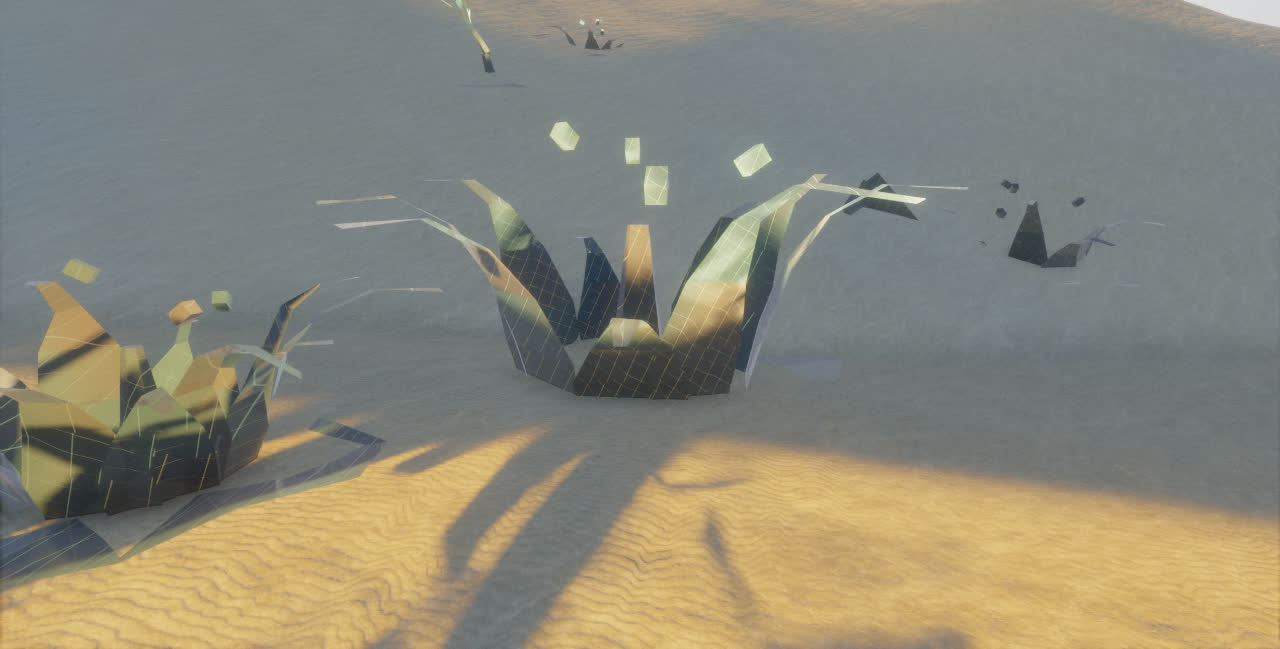
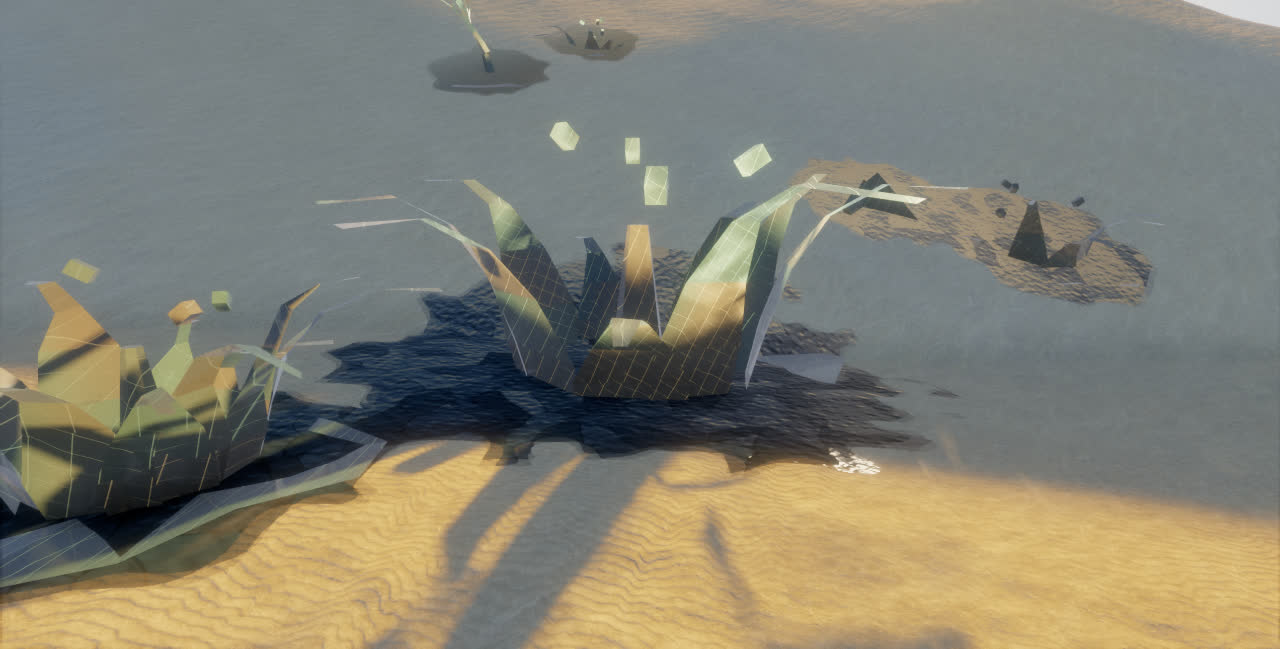
docs(phase 9): finishing round — review guide, plan, PROGRESS, PERF; oasis spots reframed past the caravanserai; review captures

diff --git a/docs/phase-9/review-guide.md b/docs/phase-9/review-guide.md
@@ -1,10 +1,10 @@
-# Phase 9 — the erg: human review guide (30 October 2026)
+# Phase 9 — the erg: human review guide (30 October 2026, updated)
 
 Everything for D7 (ruins and glass), D7b (ravine kits) and D8 (scrub, margin, oasis) is in and on
 `claude/wraithoftheunstill-phase-7`. This is the list to walk through. Each view is a photo spot:
 open the game with `?spot=<id>` (add `&title=0` to skip the title), or pick it from the photo-spot
 menu. The captures from the last build are in `screenshots/phase-09-review/` (`sheet.jpg` is all
-sixteen on one page).
+seventeen on one page).
 
 Restoration matters: most spots set the Dunes **restored**; `p9r-oasis-stilled` sets them stilled.
 Water in the braids runs only from about 16:30 to 1:00 and only once restored.
@@ -20,29 +20,41 @@ Water in the braids runs only from about 16:30 to 1:00 and only once restored.
 | `p9r-stride-seams` | down in the Stride | thin black-green glass veins in the walls, glinting, not glowing |
 | `p9r-hoodoos-dusk`, `p9r-hoodoos-noon` | the hoodoo field and arches | clean silhouettes, long shadows |
 | `p9r-canyon-shade` | the Galleries' floor in afternoon shade | the shaded sand is warm (the walls' bounce), not pale blue; sparse thorn and tamarisk |
-| `p9r-sandfall-restored` | a tiered sandfall on the west wall, morning | reads as poured sand; faint in shade |
+| `p9r-sandfall-restored` | a tiered sandfall on the west wall, morning | reads as poured sand; a cone of sand heaping at its foot |
+| `p9r-sandfall-frozen` | the same cascade frozen, afternoon shade | ramps of frozen sand ledge to ledge — a way up the wall |
 | `p9r-braids-restored` | the Dry Braids at dusk from above | thin braided water catching the sky, not a river; the aqueduct beside |
-| `p9r-glass-field` | a battle-glass field, late afternoon | glass, not plastic: green to amber, sky in it, dark in shade |
+| `p9r-glass-field` | a battle-glass field, late afternoon | glass, not plastic: green to amber, sky in it, dark in shade; the ground round each piece fused into a crazed glass crust |
 | `p9r-colossus-head` | the colossus head from the front | reads as a face (brow, nose, cheeks, ears) |
 | `p9r-pavement` | desert pavement underfoot | packed, varnished gravel, not dots |
 | `p9r-pavement-far` | the flats at 16:00 | darker gravel patches in the sand |
-| `p9r-oasis-restored` / `p9r-oasis-stilled` | the oasis both ways | restored: green palms, pool, reeds; stilled: grey palms, the basin dry and crazed |
+| `p9r-oasis-restored` / `p9r-oasis-stilled` | the oasis both ways, the caravanserai beyond | restored: green palms, pool, reeds; stilled: grey palms, the basin dry and crazed |
 
-Worth walking too (no fixed spot): the braids' banks once restored (flower clumps: primrose,
-sand verbena, globemallow, marigold); the slot floors; a wall's foot (collision); the Dry Stair's
-ford into the canyon.
+Worth walking too (no fixed spot):
+- **Freeze a sandfall**: with the Dunes restored and Frost in hand, Crystallize at the foot of a running cascade (the one in `p9r-sandfall-restored`). It freezes over a few seconds and stays frozen (saved). Climb its ramps up the wall.
+- **Wade the braids** at dusk once restored: a wake and splashes in the thin water. Flower clumps line their banks.
+- **The caravanserai** at the oasis: the gate drift (walk up and over it), the arcade roof (the stair in the back-left corner), the dry well.
+- **Glass ground**: surf onto it — it is slick.
+- The slot floors; a wall's foot (collision); the Dry Stair's ford into the canyon; the margin's grass drying to straw toward the erg.
 
-## Known gaps (not bugs)
+## What changed in this round
 
-- **Slot light shafts** are physically placed (lit only where the shadow map says the sun reaches
-  the air) and so rarely visible: the sun peaks at 49° and the Needle runs across its azimuth.
-- **Frozen sandfalls** and `p9r-sandfall-frozen` wait for D11's puzzles (freezing a fall is a verb).
-- **Sandfalls and the braids' water are visual only** until D2's sand flow; nothing wades in the braids.
-- Glass ground as terrain state, full-scene refraction, sand drifting into doorways as CPU solids
-  and the caravanserai (D11) are not done.
-- The margin's dry grass is the existing straw tussocks, not its own blade type.
+- **Frozen sandfalls**: Crystallize freezes a cascade into ramps and landings of frozen sand. The Wraith can climb a whole three-tier cascade, 107 m to 145 m. The controller no longer slides on steep terrain while standing on a built floor above it.
+- **Running sandfalls** heap a cone of sand at their foot (terrain state); it heals away when they stop or freeze.
+- **Slot beams**: art-directed beams at the slot bends, dropping from the rim at the sun's elevation while the sun is high and the rim is lit. (At this latitude the sun peaks at 49°, so the exact shadow-tested shafts barely reach into a slot.)
+- **Braids**: the Wraith wades in them. The CPU reads the shader's own water mask, and the wake and splashes ripple the sheets.
+- **Glass ground**: the terrain state's GLASS transform is fused under every piece of battle glass, drawn as a crazed, bubbled crust. It is surfable and slick, and it is the same channel D9's Glass-sworn will write.
+- **The caravanserai** (the Wellhouse camp, D11) at the oasis: walls, gate, towers, arcade with a walkable roof, a stair, the dry well, and sand drifted against the walls and into the gateway. The gate drift is a walkable solid. Trees now keep out of the erg's ruins.
+- **The margin's dry grass**: toward the erg the meadow's grass dries to straw, shorter and thinning in patches.
+- **Cliff fix**: two bake errors left some canyon risers as bare smeared sand slopes. Contour smoothing pulled cliff lines up onto the rock, and the floor trace used the spine's floor instead of the real one. Both are fixed.
+
+## Known gaps
+
+- **Full-scene refraction in the glass** is not done. It needs a copy of the opaque scene behind the glass (a new pass in the post chain). The glass's see-through term (the sky and sand behind, modelled) stands in.
+- **Sandfalls are fed by nothing** until D2's sand flow. Their cone is a kept heap, not a mass budget.
+- **No pair of cascades faces across the canyon**, so `p9r-sandfall-frozen` and `p9r-sandfall-restored` show the same cascade frozen in shade and running in sun, not side by side.
+- The allocation check flags `controller.update`, `springArm.update`, `weapons.update` and `stone.update`. These fail identically at the session's starting commit (ed57334), so they are not from this work. Worth a look on their own.
 
 ## Cost
 
-GPU means at 2560×1440, render scale 0.7 on the 3060: 13.1 ms at `p9r-galleries-dawn`, 13.1 at
-`p9r-hoodoos-noon`, 9.9 at `p9r-braids-restored`; load 17.1–17.5 s; no late pipelines. See PERF.md.
+GPU means at 2560×1440, render scale 0.7 on the 3060: 13.9–14.1 ms at `p9r-galleries-dawn`, 14.2 at
+`p9r-hoodoos-noon`, 14.1 at `p9r-needle-noon`, 10.6 at `p9r-braids-restored`, 14.8 at `p8-meadow-golden`; load 18.0 s; no late pipelines. See PERF.md.

diff --git a/docs/phase-9/plan.md b/docs/phase-9/plan.md
@@ -294,7 +294,8 @@ Fixed-scene 1440p GPU medians ~15.1 ms close, 11.3 ms mid, 12.6 ms canyon. NOT A
 ### D7 — Done (ruins and glass, 2026-10-30)
 
 Ruins are architecture sites in Shaper stone (`src/world/ruinKits.js`), seated, collided, shadowed and chunked like every built place; erg sites take sand on their ledges and banked at their feet instead of snow (site glow z = 2): **the Sunken Temple** (its dome showing above a seif dune round the open vent, a ring of half-buried columns, the portal and the stair down into the sand: the Buried Door's site), **a colonnade** walking into a dune and sinking pair by pair, **an obelisk field** east of the Stride, **the aqueduct** (arches and trough on the baked ground along the wadi, the channel high over its dunes, spans fallen), **the Sun Gate** (a slotted lintel on a ledge of the Galleries' west wall), **a giant's head** buried to the lips. **Glass fields** (`src/world/glassKit.js`): each of the five seats has a centrepiece round a glazed crater (a frozen crown splash, a glass tree where lightning forked, a star of thrown shards) and seven smaller pieces; `MAT.BATTLE_GLASS` (19) is a clear green/amber body with Fresnel sky reflection, SSR, light through it from behind, lit fracture planes and a pinpoint glint. Site cap 640.
-**Not done:** the transform channel marking glass ground (glass is meshes, not terrain state), full-scene refraction, sand drifting into doorways as CPU solids, the camp's caravanserai (D11), human review.
+**Finishing round (2026-10-30):** **glass ground** — the terrain state's GLASS transform (`BRUSH.GLASS`) stamped under every piece as the Wraith nears (`systems/glassGround.js`), shaded as a crazed bubbled crust (SSR lightly), surfable and slick. **The caravanserai** (`ruin-caravanserai`, 1810, 775 — on the flat west of the pool; the camp seat at 1800, 700 is a dune's flank): walls broken along the top and breached, gate under a carved lintel, round towers (one fallen), an arcade with a walkable roof and a stair, the dry well, sand banked against the walls and a drift half filling the gateway that you walk up and over (platforms stepped with its height: the doorway drift as a CPU solid). Erg ruins and glass keep trees out.
+**Not done:** full-scene refraction (needs an opaque-scene copy pass; the modelled see-through term stands in), human review.
 
 ### D7b — Done (ravine kits, 2026-10-30)
 
@@ -302,7 +303,8 @@ The canyon's sawtooth ledges are gone: the bake traces every strata riser as a s
 **Cost** (RTX 3060, 1440p / 0.7): +0.34 ms on the canyon floor, +0.46–0.53 ms in a rim view (walls draw last; only the near level casts, into cascade 1). GPU frame means 11.4–13.8 ms at the p9r spots.
 **Follow-up (2026-10-30):** **light shafts in the slots** (`src/render/slotShafts.js`): additive slices every 3.5 m across each slot, no higher than the walls beside them, lit only where the shadow map says the sun reaches that air — exact but rare (the sun peaks at 49° and the Needle runs across its azimuth). **Sandfalls** (`src/render/sandfalls.js`): tiered cascades at nine sites on the Galleries' tallest walls, one per ledge level pouring onto the tread below, a dust cloud at each foot; they flow once the Dunes are restored (visual only until D2 feeds them). **Canyon-floor flora**: sparse tamarisk, thorn and the odd dead tree well inside the canyon and rift walls (trees.js `setRavines`).
 **Review build (2026-10-30):** **the Dry Braids run at dusk** once restored (`src/render/wadiWater.js`: the bake exports each braid's line in `ravines.json` `wadis`; a ribbon per braid laid on the clipmap's rendered ground, broken sheets of thin water round sand bars, sky reflection and glints, wet sand either side; 16:30–1:00). **Glass seams in the Stride** (black-green veins in the rift walls, `shaders/canyon.wgsl.js`). **Warm canyon shade**: the clipmap measures how walled-in the flats are (6 ground lookups per vertex) and gives shaded ravine floors the walls' orange bounce instead of the open sky's blue. Erg trees are lighter and lit from the sand under them; canyon flora reaches out to the walls; sandfalls no longer glow in shade. Spots `p9r-braids-restored`, `-sandfall-restored`, `-canyon-shade`, `-stride-seams`. Review guide: `docs/phase-9/review-guide.md`.
-**Not done:** frozen sandfalls and `p9r-sandfall-frozen` (D11's puzzles), human review.
+**Finishing round (2026-10-30):** **frozen sandfalls** — a Crystallize at a running cascade freezes it (flag `frozen:sandfall-<site>`) into a rounded fan of frozen sand per fall with a landing over the lip: stepped floors in `world/solids.js` (ramps) carry the Wraith up the whole cascade; the controller no longer slides on steep terrain while on a built floor above it. Running falls heap a cone at their foot (terrain-state mound, kept while running). **Slot beams** at the bends (art-directed per §7.2). **Wading** in the running braids (CPU water mask = the shader's; wake and splashes). **Cliff lines** no longer smoothed up onto the rock, and the floor trace follows the true local floor (bare sand risers in the Galleries). Spot `p9r-sandfall-frozen`.
+**Not done:** sandfalls fed by D2's sand flow (they and their cones are kept, not a mass budget), human review.
 
 ### D8 — Scrub, the margin and the oasis
 
@@ -324,7 +326,8 @@ Four new tree species in the generator: **date palms** (curved ringed trunks, cr
 **Checked:** load 17.5 s to ready, no late pipelines or GPU errors after visiting the canyon, slot, hoodoos, temple, a glass field and the oasis.
 **Follow-up (2026-10-30):** **desert pavement** on the bake's flats (the dune flat weight, in patches): packed angular gravel up close (Voronoi stones, dark and varnished, lit on the sun's side), a greyer, darker lag ground far off. **The oasis basin** is dried mud crazed into polygons, bare while stilled and the lakebed once restored. **Battle glass** reworked to show the sunlit sand through a bottle-green-to-amber body (varying across a piece, not facet by facet) with thin fracture seams; the colossus head gained worn cheeks and ears.
 **Review build (2026-10-30):** **flowers after the water**: clumps of desert annuals (primrose, sand verbena, globemallow, desert marigold) along the restored braids' banks, drawn as small plants on cards (`wadiFlowers`), grown in with the restoration and shrunk away past 120–150 m. Spots `p9r-glass-field`, `-colossus-head`, `-pavement`, `-pavement-far`, `-oasis-restored`, `-oasis-stilled`.
-**Not done:** the margin's dry grass as its own blade type (the straw tussocks stand in), human review.
+**Finishing round (2026-10-30):** the margin's own dry grass (the meadow's grass dries to straw toward the erg). **The caravanserai** at the oasis (Wellhouse, D11's camp) as a ruin site with a walkable gate drift — see D7.
+**Not done:** human review.
 
 ### D9 — The dune Shaped (three plus an elite)
 

diff --git a/PROGRESS.md b/PROGRESS.md
@@ -4,6 +4,8 @@
 
 # Progress
 
+> **Latest — 30 October, finishing round (Claude): the guide's gaps closed.** Frozen sandfalls (Crystallize; climbable ramps, saved), sand cones at running falls, slot beams at the bends, wading in the braids, glass ground (terrain-state GLASS: crazed crust, slick to surf), the caravanserai at the oasis with a walkable gateway drift, the margin's grass drying to straw, and a bake fix for bare sand risers in the Galleries. **822 tests pass**, bake deterministic, load 18.0 s, GPU 10.6–14.2 ms at the p9r spots (1440p/0.7), no late pipelines. Not done: glass refraction (needs an opaque-scene copy pass). Allocation-check failures in controller/springArm/weapons/stone predate this session (same at ed57334). Review: `docs/phase-9/review-guide.md`, `screenshots/phase-09-review/sheet.jpg`.
+>
 > **Latest — 30 October, review build (Claude): the erg is ready for human review.** Walk `docs/phase-9/review-guide.md` (16 `p9r-*` spots; captures and a contact sheet in `screenshots/phase-09-review/`). New since the open matters: the Dry Braids run with thin water at dusk once restored, desert flowers on their banks, glass seams in the Stride, warm (not blue) shade on canyon floors, lighter erg trees, sandfalls dark in shade, glass dark in shade. **816 tests pass**, bake verified deterministic, load 17.1–17.5 s, GPU 9.9–13.1 ms at the p9r spots (1440p/0.7), no late pipelines. Left for later: frozen sandfalls (D11), the margin's own dry-grass blade, glass as terrain state.
 >
 > **Latest — 30 October, later (Claude): the open matters.** Slot light shafts (lit only where the sun reaches the air) and tiered sandfalls (restored) in the Galleries; Stone's mass height is a field query (no per-call allocation on the collision/push paths); the dry oasis basin is crazed mud; desert pavement (packed varnished gravel) patches the erg's flats; battle glass now shows the sand through a green-to-amber body with thin fracture seams; the colossus head has cheeks and ears; canyon floors grow sparse tamarisk, thorn and deadwood. **813 tests pass**; load 17.1 s to ready; GPU 12.8–13.0 ms at `p9r-galleries-dawn` / `p9r-hoodoos-noon` (1440p/0.7), no late pipelines. Still open: flowers after rain, frozen sandfalls (D11), human review. Details: `docs/phase-9/plan.md` D7b/D8 follow-ups.

diff --git a/PERF.md b/PERF.md
@@ -444,3 +444,17 @@ Cliff kit alone (on − off): +0.34 ms canyon floor, +0.46–0.53 ms rim view (+
 | p7-monastery-approach | 12.88 | reference (meadow side) |
 
 The clipmap's enclosure term (6 ground lookups per vertex, flats only) and the wadi water + flowers together add ~0.15–0.25 ms on the erg's canyon views; the first version (8 lookups across levels) cost ~0.45 ms. Load 17.1–17.5 s to ready. No late pipelines at any p9r spot.
+
+## 30 October (finishing round) — same setup
+
+| View | GPU mean (ms) |
+|---|---|
+| p9r-galleries-dawn | 13.9–14.1 |
+| p9r-hoodoos-noon | 14.2 |
+| p9r-needle-noon | 14.1 |
+| p9r-braids-restored | 10.6 |
+| p9r-glass-field | 14.5 |
+| p9r-oasis-restored | 11.3 |
+| p8-meadow-golden | 14.8 (reference) |
+
+At p9r-galleries-dawn, trees off saves 0.32 ms (the canyon flora); the canyon kit with falls and beams 1.07 ms (more cliff lines after the bake fix). Load 18.0 s to ready. No late pipelines.
